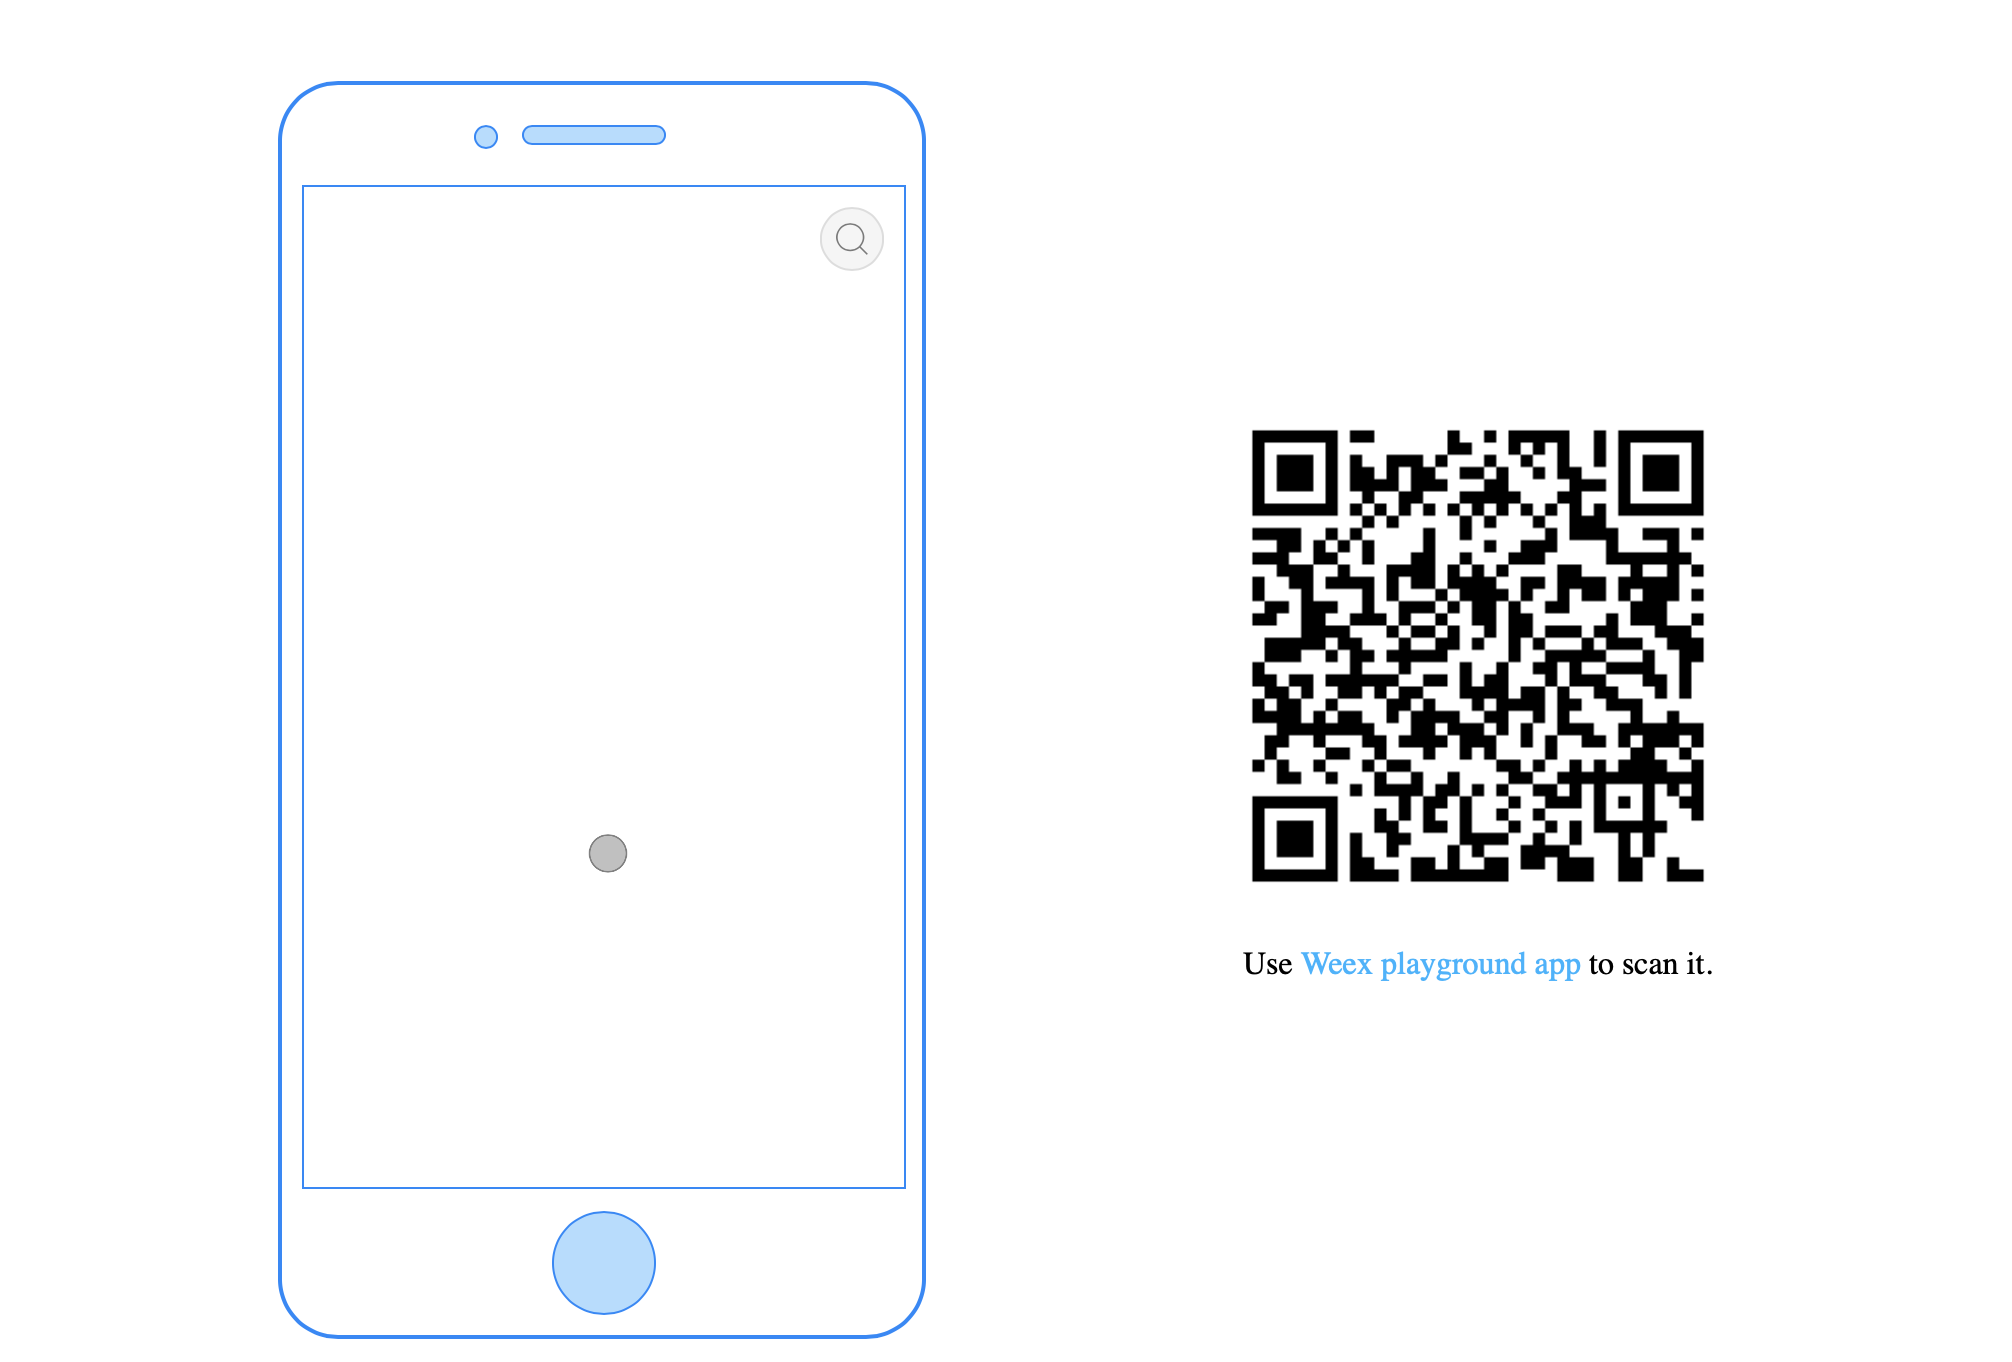
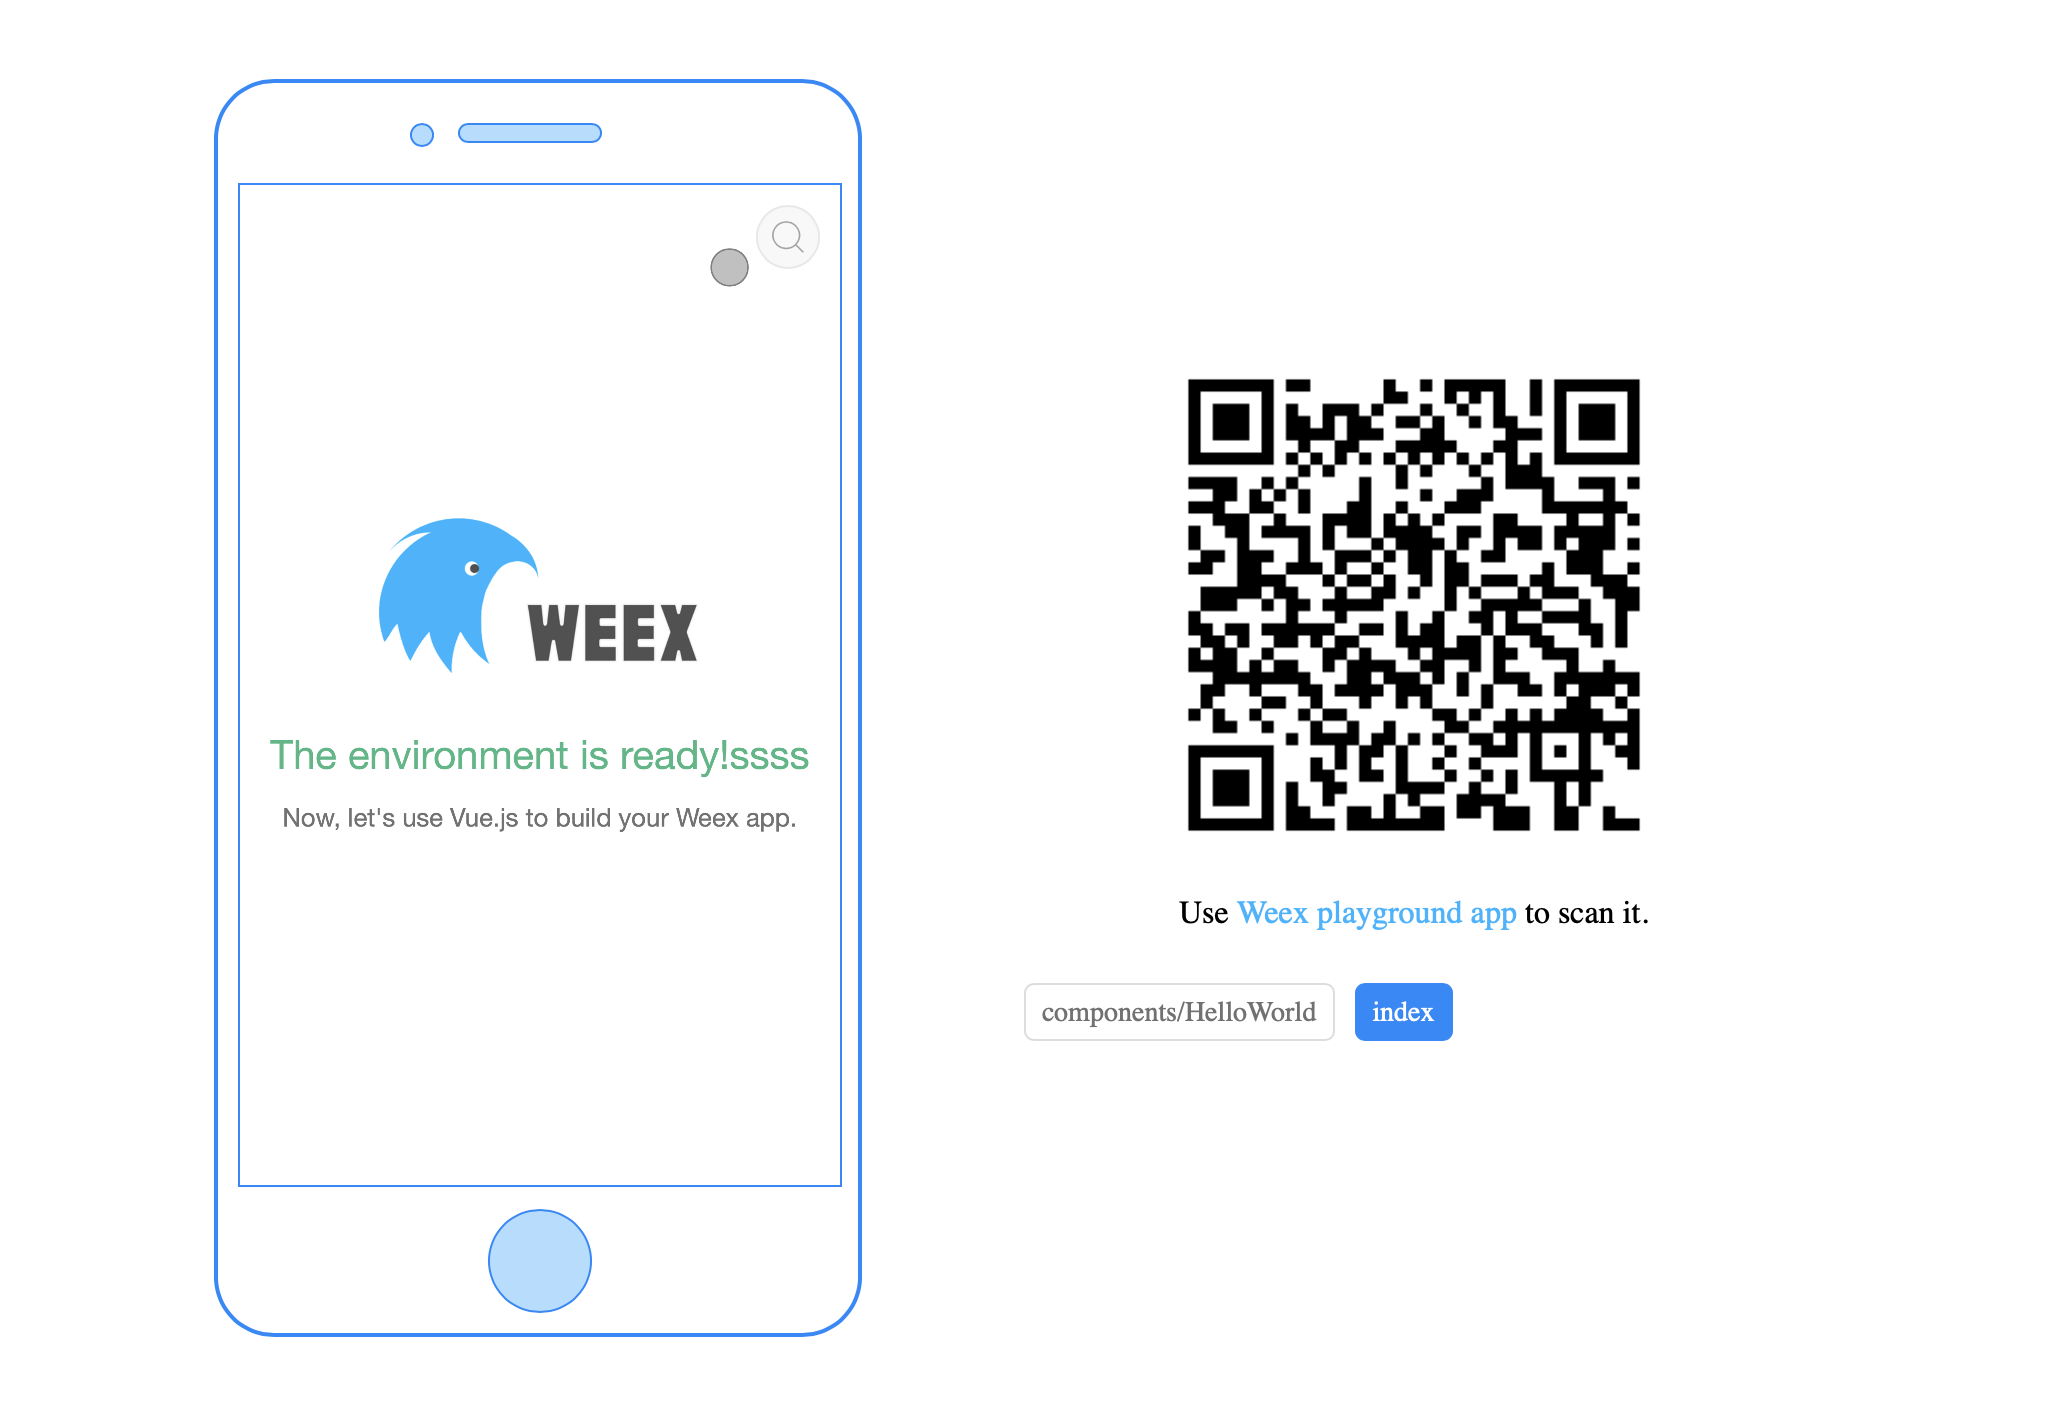
d

diff --git a/docs/.vuepress/nav/zh.js b/docs/.vuepress/nav/zh.js
@@ -32,12 +32,21 @@ module.exports = [
       {
         text: 'Multi-Platform',
         items: [
-           { text: 'React-native', link: '/h5/reactnative/' },
-           { text: 'Cordova', link: '/h5/cordova/' },
-           { text: 'weex', link: '/h5/weex/' },
-           { text: 'HTML', link: '/h5/html/' },
-           { text: 'JS', link: '/h5/js/' },
-           { text: 'CSS', link: '/h5/css/' }
+
+              { text: 'Native Group',items: [  
+                    { text: 'Flutter', link: '/h5/flutter/' },
+                    { text: 'React-native', link: '/h5/reactnative/' },
+                    { text: 'Cordova', link: '/h5/cordova/' },
+                    { text: 'Weex', link: '/h5/weex/' },
+
+              ]},
+
+            { text: 'Web Group',items: [     
+               { text: 'HTML', link: '/h5/html/' },
+               { text: 'CSS', link: '/h5/css/' },
+               { text: 'JS', link: '/h5/js/' },
+
+             ]}
         ]
       },
 

diff --git a/docs/.vuepress/config.js b/docs/.vuepress/config.js
@@ -55,6 +55,7 @@ module.exports = {
 	 '/c/': [
 	        '',
 	      ],
+
 	 	/*html*/
 	 '/h5/cordova/': [
 	        '',
@@ -67,6 +68,7 @@ module.exports = {
     '/h5/html/': [
           '',
         ],
+
     '/h5/reactnative/': [
           '',
           'reactnew',
@@ -76,13 +78,20 @@ module.exports = {
           'reactview',
           'reactimg',
         ],
+
     '/h5/weex/': [
           '',
-          'weex-start'
+          'weex-start',
+          'weex-demo',
         ],
+
     '/h5/js/': [
           '',
         ],
+
+     '/h5/flutter/': [
+        '',
+      ],
 
     },
 

diff --git a/docs/h5/weex/weex-demo.md b/docs/h5/weex/weex-demo.md
@@ -1,0 +1,155 @@
+# WEEX - 原生使用
+
+## 修改Vue文件
+
+我们用Webstorm 打开我们创建的weex项目：
+![](./img/4.png)
+
+修改index.vue
+
+``` vue
+<template>
+  <div class="wrapper">
+    <image :src="logo" class="logo" />
+    <text class="greeting">这里是首页的内容</text>
+    <HelloWorld/>
+  </div>
+</template>
+
+<script>
+import HelloWorld from '@/components/HelloWorld'
+export default {
+  name: 'App',
+  components: {
+    HelloWorld
+  },
+  data () {
+    return {
+      logo: 'https://gw.alicdn.com/tfs/TB1yopEdgoQMeJjy1XaXXcSsFXa-640-302.png'
+    }
+  }
+}
+</script>
+
+<style scoped>
+  .wrapper {
+    justify-content: center;
+    align-items: center;
+  }
+  .logo {
+    width: 424px;
+    height: 200px;
+  }
+  .greeting {
+    text-align: center;
+    margin-top: 70px;
+    font-size: 50px;
+    color: #41B883;
+  }
+  .message {
+    margin: 30px;
+    font-size: 32px;
+    color: #727272;
+  }
+</style>
+
+```
+
+下面是引用其他vue文件的写法
+
+``` vue
+import HelloWorld from '@/components/HelloWorld'
+
+// 使用的话直接在对应的位置添加
+  <HelloWorld/>
+  即可调用其他vue文件
+
+```
+
+
+HelloWorld.vue 如下：
+
+``` vue
+<template>
+  <text class="message">修改Hello.vue文件</text>
+</template>
+
+
+```
+
+
+packgae.json 里面存在一些终端的命令
+
+``` js
+  "scripts": {
+    "start": "npm run serve",
+    "build": "webpack --env.NODE_ENV=common",
+    "build:prod": "webpack --env.NODE_ENV=production",
+    "build:prod:web": "webpack --env.NODE_ENV=release",
+    "build:plugin": "webpack --env.NODE_ENV=plugin",
+    "clean:web": "rimraf ./release/web",
+    "clean:ios": "rimraf ./release/ios",
+    "clean:android": "rimraf ./release/android",
+    "dev": "webpack --env.NODE_ENV=common --progress --watch",
+    "unit": "karma start test/unit/karma.conf.js --single-run",
+    "test": "npm run unit",
+    "lint": "eslint --ext .js,.vue src  test/unit --fix",
+    "serve": "webpack-dev-server --env.NODE_ENV=development --progress",
+    "ios": "weex run ios",
+    "web": "npm run serve",
+    "android": "weex run android",
+    "pack:ios": "npm run clean:ios && weex build ios",
+    "pack:android": "npm run clean:android && weex build android",
+    "pack:web": "npm run clean:web && npm run build:prod:web"
+  },
+
+```
+
+我们在终端输入：
+``` js
+npm run start
+```
+就会在浏览器中查看运行效果：
+
+![](./img/5.png)
+
+## 在模拟器中运行
+
+``` js
+npm run ios
+```
+
+等待一段时间，在文件夹platforms文件中
+
+![](./img/6.png)
+
+其中的index.js 和components文件夹下的HelloWorld.js 就会发生变化
+
+``` js
+/***/ }),
+/* 7 */
+/***/ (function(module, exports) {
+
+module.exports={render:function (){var _vm=this;var _h=_vm.$createElement;var _c=_vm._self._c||_h;
+  return _c('div', {
+    staticClass: ["wrapper"]
+  }, [_c('image', {
+    staticClass: ["logo"],
+    attrs: {
+      "src": _vm.logo
+    }
+  }), _c('text', {
+    staticClass: ["greeting"]
+  }, [_vm._v("这里是首页的内容")]), _c('HelloWorld')], 1)
+},staticRenderFns: []}
+module.exports.render._withStripped = true
+
+/***/ })
+/******/ ]);
+
+```
+
+用Xcode运行项目就会在原生项目中查看到修改vue之后的效果：
+
+![](./img/7.png)
+

diff --git a/docs/h5/weex/weex-start.md b/docs/h5/weex/weex-start.md
@@ -1,4 +1,4 @@
-# Object-C - WEEX 快速上手
+# WEEX - 快速上手
 
 ## 创建一个 App
 ::: tip

diff --git a/docs/h5/reactnative/README.md b/docs/h5/reactnative/README.md
@@ -1,1 +1,1 @@
-# Object-C - React-native
+# 跨平台 - React-native

diff --git a/docs/h5/flutter/README.md b/docs/h5/flutter/README.md
@@ -1,0 +1,4 @@
+# 跨平台 - Flutter
+
+![](./img/1.png)
+ 

diff --git a/docs/h5/cordova/README.md b/docs/h5/cordova/README.md
@@ -1,1 +1,1 @@
-# Object-C - Cordova
+# 跨平台 - Cordova

diff --git a/docs/h5/html/README.md b/docs/h5/html/README.md
@@ -1,1 +1,1 @@
-# Object-C - HTML 
+# 跨平台 - HTML 

diff --git a/docs/h5/css/README.md b/docs/h5/css/README.md
@@ -1,2 +1,2 @@
-# Object-C - CSS
+# 跨平台 - CSS
  

diff --git a/docs/h5/weex/README.md b/docs/h5/weex/README.md
@@ -1,1 +1,1 @@
-# Object-C - WEEX
+# 跨平台 -  WEEX

diff --git a/docs/h5/js/README.md b/docs/h5/js/README.md
@@ -1,1 +1,1 @@
-# Object-C - JS
+# 跨平台 - JS
